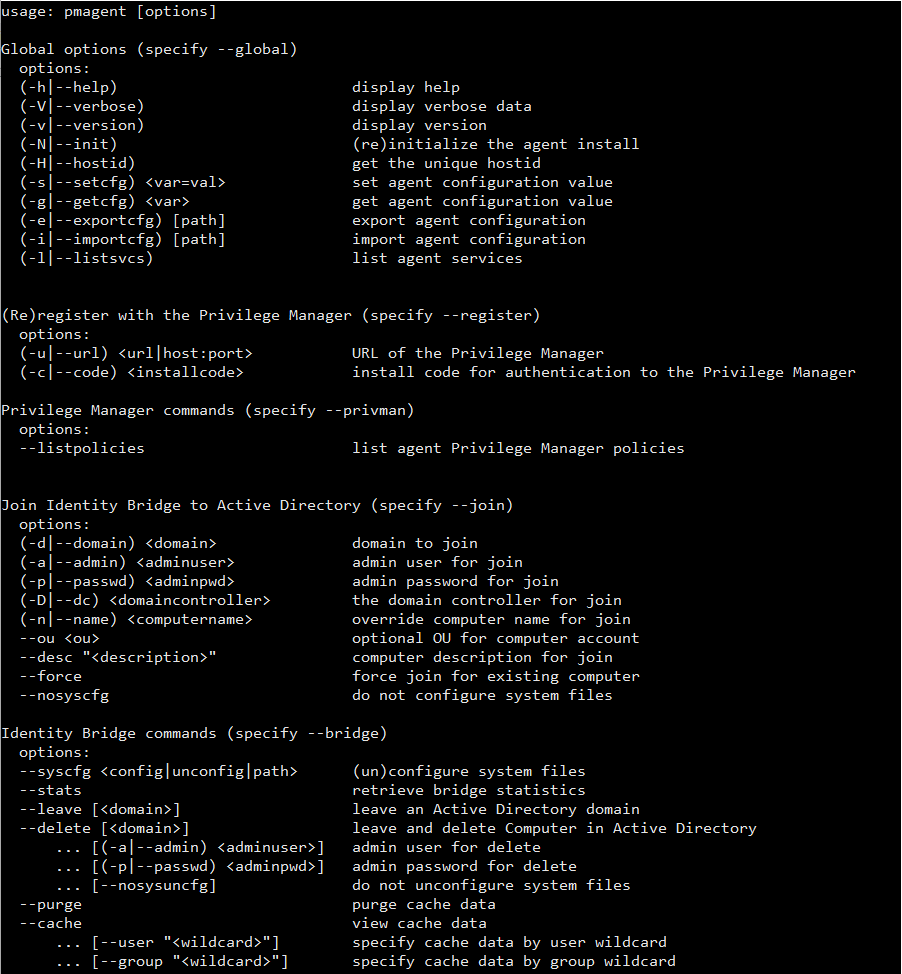
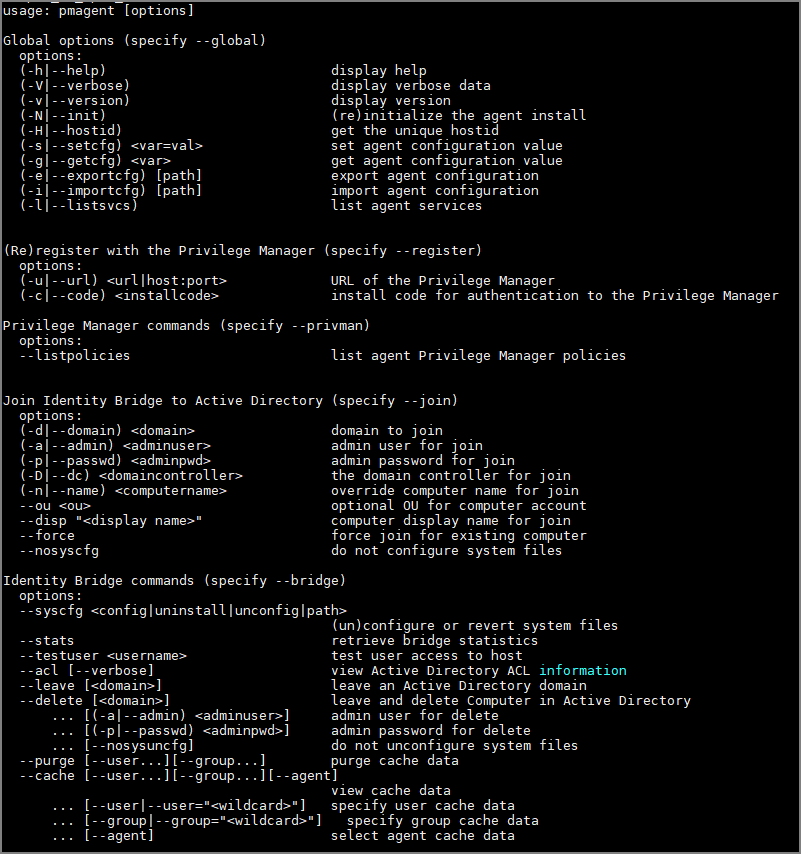
edits and added release notes topic

Changed region(s): [[0.0, 0.0, 0.9675, 1.0], [0.9675, 0.0, 1.0, 1.0], [0.0, 0.9742, 0.0312, 1.0]]

diff --git a/agents/commands/index.md b/agents/commands/index.md
@@ -13,7 +13,7 @@ Root access or a user with root sudo permissions.
 
 Once your Thycotic Identity bridge agent has been joined to Active Directory there are a number of other commands that you can utilise in conjunction with the __--bridge__ option and these are identified below
 
-### --syscfg <config|unconfig|path>
+### --syscfg <config|unconfig|uninstall|path>
 
 Allows you to configure/unconfigure the hosts native authentication files for the Thycotic system configuration files to authenticate against your Active Directory Domain.
 
@@ -30,11 +30,32 @@ Files currently modified by __--syscfg__:
 * /etc/ssh/ssh_config
 * /etc/ssh/sshd_config
 
+If password-auth, passwd or nsswitch.conf are found to be missing during a --syscfg config the process will be aborted and the user informed that a required system file is missing. ssh_config and sshd_config are not required files.
+If missing during a --syscfg unconfig\uninstall the process will continue and modify\replace any files still available.
+
+The uninstall option will instead of modifying the existing system file simply use the .thyorig backups created when create was run and reset the system files to how they were originally.
+
+The unconfig will modify the existing files creating a .thybak backup first.
+
+In the event the .thyorig files are missing the agent will fallback to performing a modifying the existing files.
+
 ### --stats
 
 Provides on screen feedback of the status of the agent, including Process Id and currently active AD instance.
 
 Useful commands to check under which OU the agent is defined and running.
+
+### --testuser <username>
+
+Performs and Active Directory check of the user status against the agent. 
+
+The following statuses can be returned:
+
+* Access Allowed
+* Account Disabled
+* Account Expired
+* Account Locked
+* Thycotic ACL denied access and User doesn't exist
 
 ### --leave [<domain>]
 
@@ -58,12 +79,13 @@ Delete can be completed solely through command line input or interactively. Inte
 
 Optional: `--nosysuncfg` stops the removal of the Thycotic system configuration files.
 
-### --purge
+### --purge [--user...]
+
+* `--purge [--user...][--group...]` view cahce data
+* `.. [--user|--user="<wildcard>"]` specify user cache data
+* `.. [--group|--group="<wildcard>"]` specify group cache data
 
 Purge allows the deletion of the locally cached data stored on the agent. The purge can remove all user and group cached information or be filtered to down to individual user and group level.
-
-* `[--user "<wildcard>"]` specify cache data by user wildcard
-* `[--group "<wildcard>"]` specify cache data by group wildcard
 
 The purge will only remove the locally cached information regarding users and groups on that Agent. The cached information is used to reduce user/group look up times in Active Directory and provide authentication in the event the Domain is unavailable.
 
@@ -71,10 +93,12 @@ The default of --purge will delete all information.  You may use * wildcard matc
 
 ### --cache
 
-Displays the cached information for the agent, users and groups. The cache can be displayed for all 3 categories or filtered to down to individual user and group level.
+* `--cache [--user...][--group...][--agent]` view cache data
+* `... [--user|--user="<wildcard>"]` specify user cache data
+* `... [--group|--group="<wildcard>"]` specify group cache data
+* `... [--agent]` select agent cache data
 
-* `[--user "<wildcard>"]` specify cache data by user wildcard
-* `[--group "<wildcard>"]` specify cache data by group wildcard
+Displays the cached information for the agent, users and groups. The cache can be displayed for all 3 categories or filtered to down to individual user and group level.
 
 The cached information is used to reduce user/group look up times in Active Directory and provide authentication in the event the Domain is unavailable. 
 
@@ -86,7 +110,7 @@ The default of --cache will display all information.  You may use * wildcard mat
 
 ### Syscfg
 
-`--bridge --syscfg /root/thycotic/corp-config.json`
+`pmagent --bridge --syscfg /root/thycotic/corp-config.json`
 
 Rather than using the default /opt/thycotic/scripts/ to configure or unconfigure the authentication system files, the agent will call /root/thycotic/corp-config.json
 
@@ -110,6 +134,17 @@ Computer name: AGENT1
 OU: CN=Computers,DC=Demo,DC=com
 ```
 
+### Testuser
+
+`pmagent --bridge --testuser user1`
+
+Example output if account expired:
+
+```
+User user1 denied access to AGENT1
+Reason: User account user1 has expired in Active Directory
+```
+
 ### Leave
 
 `pmagent --bridge --leave --nosysuncfg`
@@ -131,9 +166,9 @@ You will be prompted interactively to complete the deletion process.
 1. Enter *Administrator*\@Demo's password:  
 1. Successful.
 
-### Cache
+### Cache - Default
 
-`pmagent --bridge --cache --user [Tt]est\*`
+`pmagent --bridge --cache --user [Uu]ser\*`
 
 * Using both Character casing and wildcard matching
 * Following the successful authentication of an AD user to your *nix host you can recall the cached information for that user.
@@ -142,80 +177,79 @@ Example output:
 
 ```
 {
-    "users": [
-    {
-        "usid": "S-1-5-21-4211583412-2907095826-1833522802-3360",
-        "name": "test1",
-        "sam": "DEMO/test1",
-        "principal": "test1\@DEMO.COM",
-        "linked": 0,
-        "uid": 336001,
-        "gid": 513,
-        "gecos": "",
-        "home": "{target home root}/DEMO/test1",
-        "shell": "/bin/bash",
-        "lastUp": 1592387573,
-        "expires": 159663333,
-        "data": {
-            "userName": "test1",
-            "userPrincipalName": "test1\@Demo.com",
-            "KerberosName": "test1\@Demo.com",
-            "unixLoginName": "test1",
-            "unixLoginShell": "/bin/bash",
-            "unixHomeDirectory": "{target home root}/DEMO/test1",
-            "uidNumber": 336001,
-            "gidNumber": 513,
-            "sid": "S-1-5-21-4211583412-2907095826-1833522802-3360",
-            "gecos": null,
-            "groupDescription": null,
-            "nETBIOSDomainName": "DEMO",
-            "forceHomeDirPermissions": false,
-            "syncLocalPassword": false,
-            "passThrough": false,
-            "linkedUser": false,
-            "accountExpires": 910692730085,
-            "passwordExpired": false,
-            "accountLocked": false,
-            "accountDisabled": false,
-            "accessDenied": false,
-            "groups": [
-                {
-                    "gidNumber": 667,
-                    "name": "group2",
-                    "altname": "group2",
-                    "description": null,
-                    "sid": "S-1-5-21-4211583412-2907095826-1833522802-3105"
-                },
-                {
-                    "gidNumber": 666,
-                    "name": "group1",
-                    "altname": "group1",
-                    "description": null,
-                    "sid": "S-1-5-21-4211583412-2907095826-1833522802-3104"
-                },
-                {
-                    "gidNumber": 513,
-                    "name": "DomainUsers",
-                    "altname": "DomainUsers",
-                    "description": "Alldomainusers",
-                    "sid": "S-1-5-21-4211583412-2907095826-1833522802-513"
-                }
-            ]
-        },
-        "groups": [
-            "DomainUsers",
-            "group1",
-            "group2"
-            ]
-        }
-    ]
-}
+"Users:
+    Names: user1, user1, DEMO/user1, user1@DEMO.COM
+    SID: S-1-5-21-4211583412-2907095826-1833522802-3465
+    uid: 446501, gid: 513
+    groups: Domain^Users
 ```
 
+### Cache - Full
+
+Using both Character casing and wildcard matching.
+
+Following the successful authentication of an AD user to your *nix host you can recall the cached information for that user.
+
+```
+{
+  "users": [
+    {
+      "usid": "S-1-5-21-4211583412-2907095826-1833522802-3465",
+      "name": "user1",
+      "adname": "user1",
+      "sam": "DEMO/user1",
+      "principal": "user1@DEMO.COM",
+      "linked": 0,
+      "uid": 446501,
+      "gid": 513,
+      "gecos": "user 1",
+      "home": "/home/DEMO/user1",
+      "shell": "/bin/bash",
+      "lastUp": 1594725372,
+      "expires": -1,
+      "data": {
+        "userName": "user1",
+        "userPrincipalName": "user1@Demo.com",
+        "KerberosName": "user1@Demo.com",
+        "unixLoginName": "user1",
+        "unixLoginShell": "/bin/bash",
+        "unixHomeDirectory": "/home/DEMO/user1",
+        "uidNumber": 446501,
+        "gidNumber": 513,
+        "sid": "S-1-5-21-4211583412-2907095826-1833522802-3465",
+        "gecos": "user 1",
+        "description": null,
+        "displayName": "user 1",
+        "groupDN": "CN=Domain Users,CN=Users,DC=Demo,DC=com",
+        "groupDescription": "All domain users",
+        "groupDisplayName": "Domain Users",
+        "nETBIOSDomainName": "DEMO",
+        "passThrough": false,
+        "linkedUser": false,
+        "accountExpires": 4294967295,
+        "passwordExpired": false,
+        "accountLocked": false,
+        "accountDisabled": false,
+        "accessDenied": false,
+        "message": "Welcome user1 to the Thycotic Universal Bridge on AGENT1",
+        "groups": [
+          {
+            "gidNumber": 513,
+            "name": "Domain^Users",
+            "altname": "Domain^Users",
+            "description": "All^domain^users",
+            "sid": "S-1-5-21-4211583412-2907095826-1833522802-513"
+          }
+        ]
+      }
+    }
+  ]
+}
+```
 ### Purge
 
-`pmagent --bridge --purge`
-`pmagent --bridge --cache --user *`
+`pmagent --bridge --cache --user=[Uu]ser*`
+`pmagent --bridge --cache --user`
 
 * This will purge all cached user and group information from the agent
 * Follow a purge this is the output you would see from checking the user cache

diff --git a/release-notes/rn-1.0.0.md b/release-notes/rn-1.0.0.md
@@ -1,0 +1,20 @@
+[title]: # (1.0.0 Initial Release)
+[tags]: # (read me)
+[priority]: # (31000)
+# 1.0.0 Initial Release
+
+_August 12th, 2020_:
+
+With this release, Thycotic is rolling out the __Identity Bride__ (Id Bridge) for full Unix/Linux Active Directory integration support.
+
+## Initial Feature Set
+
+* Joins a non-windows host (Unix/Linux) to Active Directory, creating a computer object in Active Directory and a Kerberos trust between the Unix/Linux and Active Directory.
+* Allows User and Group POSIX data (UID/GID/Home Dir/Shell/GECOS) to be set directly in Active Directory without the need for any schema extension.
+* Allows User and Group POSIX data (UID/GID/Home Dir/Shell/GECOS) to generated on the fly when a user logs on.
+* Stores all agent data centrally without the need for an external database or schema extension.
+* Honors password and account policies when authenticating from non-windows systems (Unix/Linux).
+* Allows for users to be locked and/or de-provisioned in the central directory and take immediate effecting on all Unix/Linux endpoints.
+* Allows for a user to authenticate using their Active Directory username and password on Unix & Linux systems that have been joined to Active Directory.
+* Allows for a user to authenticate using their Active Directory username and password on Unix & Linux systems that have been joined to Active Directory even when disconnected from Active Directory, so long as they have authenticated within in the last 30 days.
+* Allows Access Control Lists (ACLs) (users and hosts) to be defined using native Active Directory groups.  Provide selective access to target hosts based on group membership.

diff --git a/agents/install/join-to-ad.md b/agents/install/join-to-ad.md
@@ -11,7 +11,7 @@ This page describes the process and options for joining your *nix agent to an Ac
 
 Before being able to join you *nix host to a domain the following requirements will need to be met
 
-* For any of the Domains (Parent and Child included) you may wish to join, at least 1 of the Domain Controller must have the Active Directory Certificate Services installed.
+* For the Linux\Unix agents to be able to communicate with Active Directory the Domain Controllers will require LDAPS to be enabled.
 * DNS and routing must be correct
   * DNS record for agent
   * Agent must be able to resolve the domain and domain controller
@@ -31,6 +31,8 @@ As the Join process completes and the agent is registered, the join process will
 authentication to pass through to Active Directory. This option can be skipped if required.
 
 The command line also allows additional optional configuration options to be included in the Join, these will be details below.
+
+As the join completes the system authentication files will also be configured to allow authentication of Active Directory users
 
 ## Existing Computer objects
 

diff --git a/index.md b/index.md
@@ -6,4 +6,3 @@
 Thycotic's __Identity Bridge__ (ID Bridge) is a utility that allows the setting of values to be used in the Thycotic panels under Active Directory User and Computers, User and Group Properties. These values are used to enable the ID Bridge to manage the user authentication from Linux\Unix hosts to Active directory.
 
 The ID Bridge Configuration Utility allows to globally set all values and selected values at an organizational unit (OU) level.
-

diff --git a/release-notes/index.md b/release-notes/index.md
@@ -1,0 +1,8 @@
+[title]: # (Release Notes)
+[tags]: # (read me)
+[priority]: # (30000)
+# Release Notes
+
+This section includes the most recent Identity Bridge Release Notes.
+
+* [1.0.0 Release Notes - Initial Release](rn-1.0.0.md)
